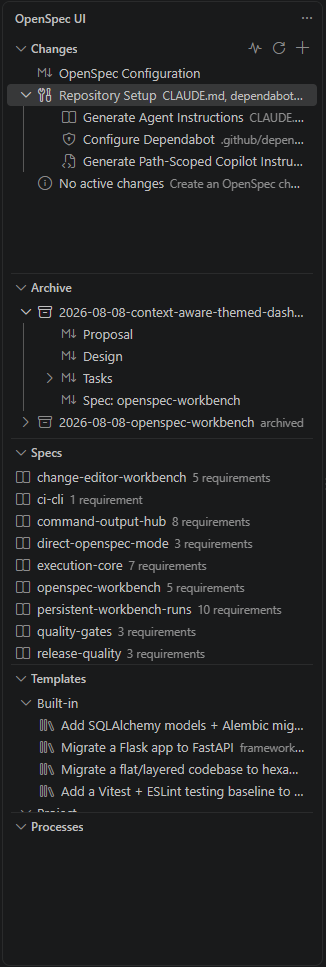
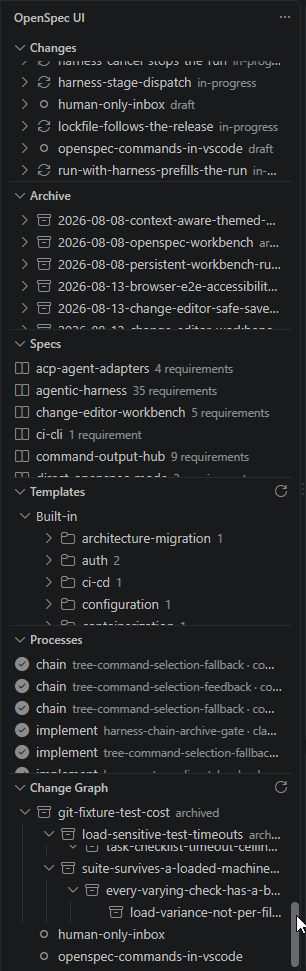
Configure the harness for a real run, and show the graph in the screenshots
The global config named three stages and left `verify` without an agent,
so the verify stage ran its mechanical checks and then had nothing to
hand the result to. All four agent stages are now named. `archive` and
`git` are absent deliberately: `HarnessStepAgentStage` excludes them,
because one calls `openspec archive` directly and the other runs its own
push/PR/merge sequence, so neither has anything for an entry to
configure.

`apply` stays on copilot-cli-acp. The consequence is worth stating rather
than discovering: it reports tokens and no cost, so the chain's
`maxCostUsd` can only sum the three claude stages. `maxTokens` is
deliberately not set — it counts input plus output and ignores cache,
which on the one run measured here was 8,322 of 1,701,829. A ceiling that
sees half a percent of what moves is worse than none, because it looks
like protection.

The model id came from the CLI rather than from the picker: Copilot's own
session state records `"model":"claude-sonnet-5"`, lowercase, and its
help example is `--model gpt-5.4`. The display name `GPT-5.3-Codex` is
therefore `gpt-5.3-codex` here. Nothing validates it against a list — the
config only checks the shape — so the CLI is the authority and a wrong id
fails visibly inside the agent.

autonomyLevel `autonomous` and reviewGate `agent-sufficient` are in the
per-change file, because the global one rejects both by design. Verified
against the validator rather than the documentation: setting
[…]

diff --git a/packages/extension/README.md b/packages/extension/README.md
@@ -13,14 +13,11 @@ Project site: [https://openspec-ui.dev](https://openspec-ui.dev).
 
 #### Expanded artifacts and actions
 
-![Expanded OpenSpec Workbench with change artifacts, archive entries, specs, templates, and processes](https://raw.githubusercontent.com/VeryComplexAndLongName/OpenSpec-UI/main/docs/images/extension/overview-expanded.png)
+![Expanded OpenSpec Workbench with change artifacts, archive entries, specs, templates, processes, and the change graph](https://raw.githubusercontent.com/VeryComplexAndLongName/OpenSpec-UI/main/docs/images/extension/overview-expanded.png)
 
 #### Compact repository overview
 
-![Compact OpenSpec Workbench with Changes, Archive, Specs, Templates, and Processes views](https://raw.githubusercontent.com/VeryComplexAndLongName/OpenSpec-UI/main/docs/images/extension/overview-compact.png)
-
-A sixth view, **Change Graph**, was added after these screenshots were
-taken — see Features below.
+![Compact OpenSpec Workbench with the Changes, Archive, Specs, Templates, Processes and Change Graph views](https://raw.githubusercontent.com/VeryComplexAndLongName/OpenSpec-UI/main/docs/images/extension/overview-compact.png)
 
 ### Changes and archive
 

diff --git a/README.md b/README.md
@@ -22,11 +22,10 @@ workflows through interfaces suited to their respective hosts.
 
 ### VS Code extension
 
-![VS Code OpenSpec Workbench showing Changes, Archive, Specs, Templates, and Processes](docs/images/extension/overview-expanded.png)
+![VS Code OpenSpec Workbench showing Changes, Archive, Specs, Templates, Processes and Change Graph](docs/images/extension/overview-expanded.png)
 
-The extension also contributes a **Change Graph** view, added after these
-screenshots were taken: changes nested under the ones they follow, with
-anything waiting on a change that has not landed marked as waiting.
+The sixth view, **Change Graph**, nests each change under the ones it
+follows and marks anything waiting on a change that has not landed.
 
 See the complete screenshot galleries for the
 [standalone application](packages/server/README.md#screenshots) and the

diff --git a/.changeset/screenshots-show-the-graph.md b/.changeset/screenshots-show-the-graph.md
@@ -1,0 +1,6 @@
+---
+"openspec-ui-vscode": patch
+---
+
+Refresh the workbench screenshots so they show the Change Graph view, and
+drop the notes that apologised for their absence.
